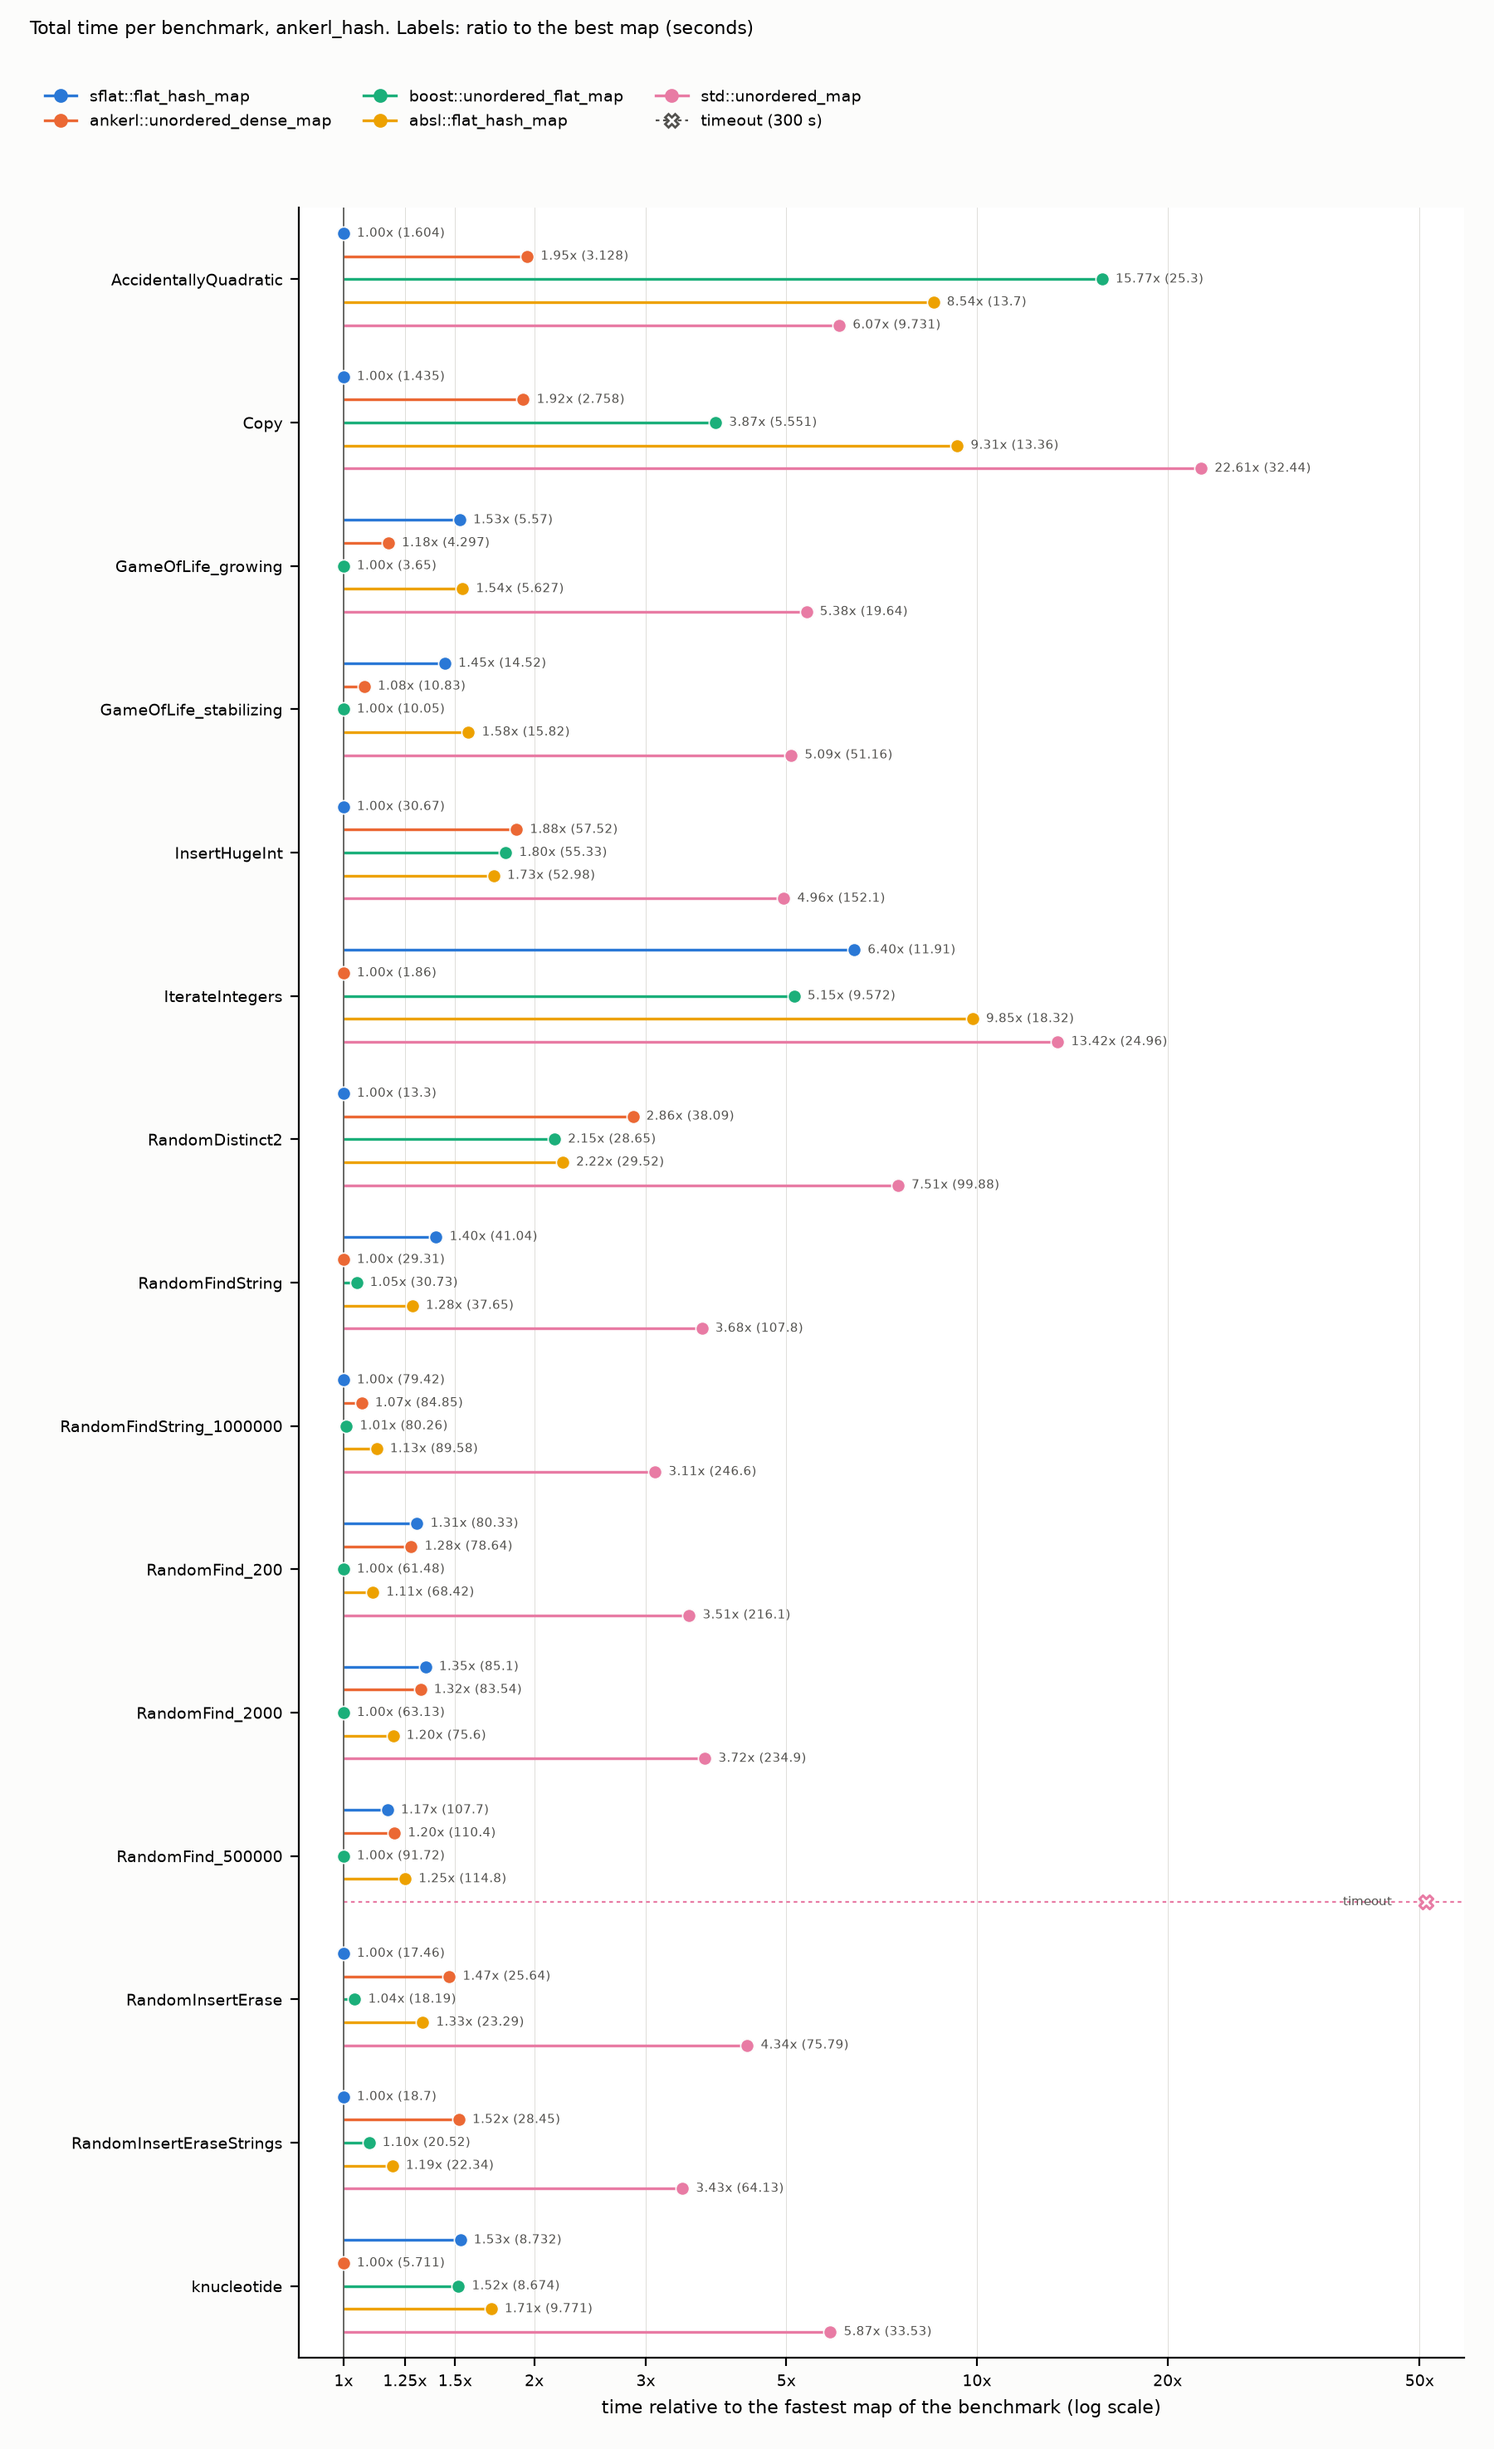
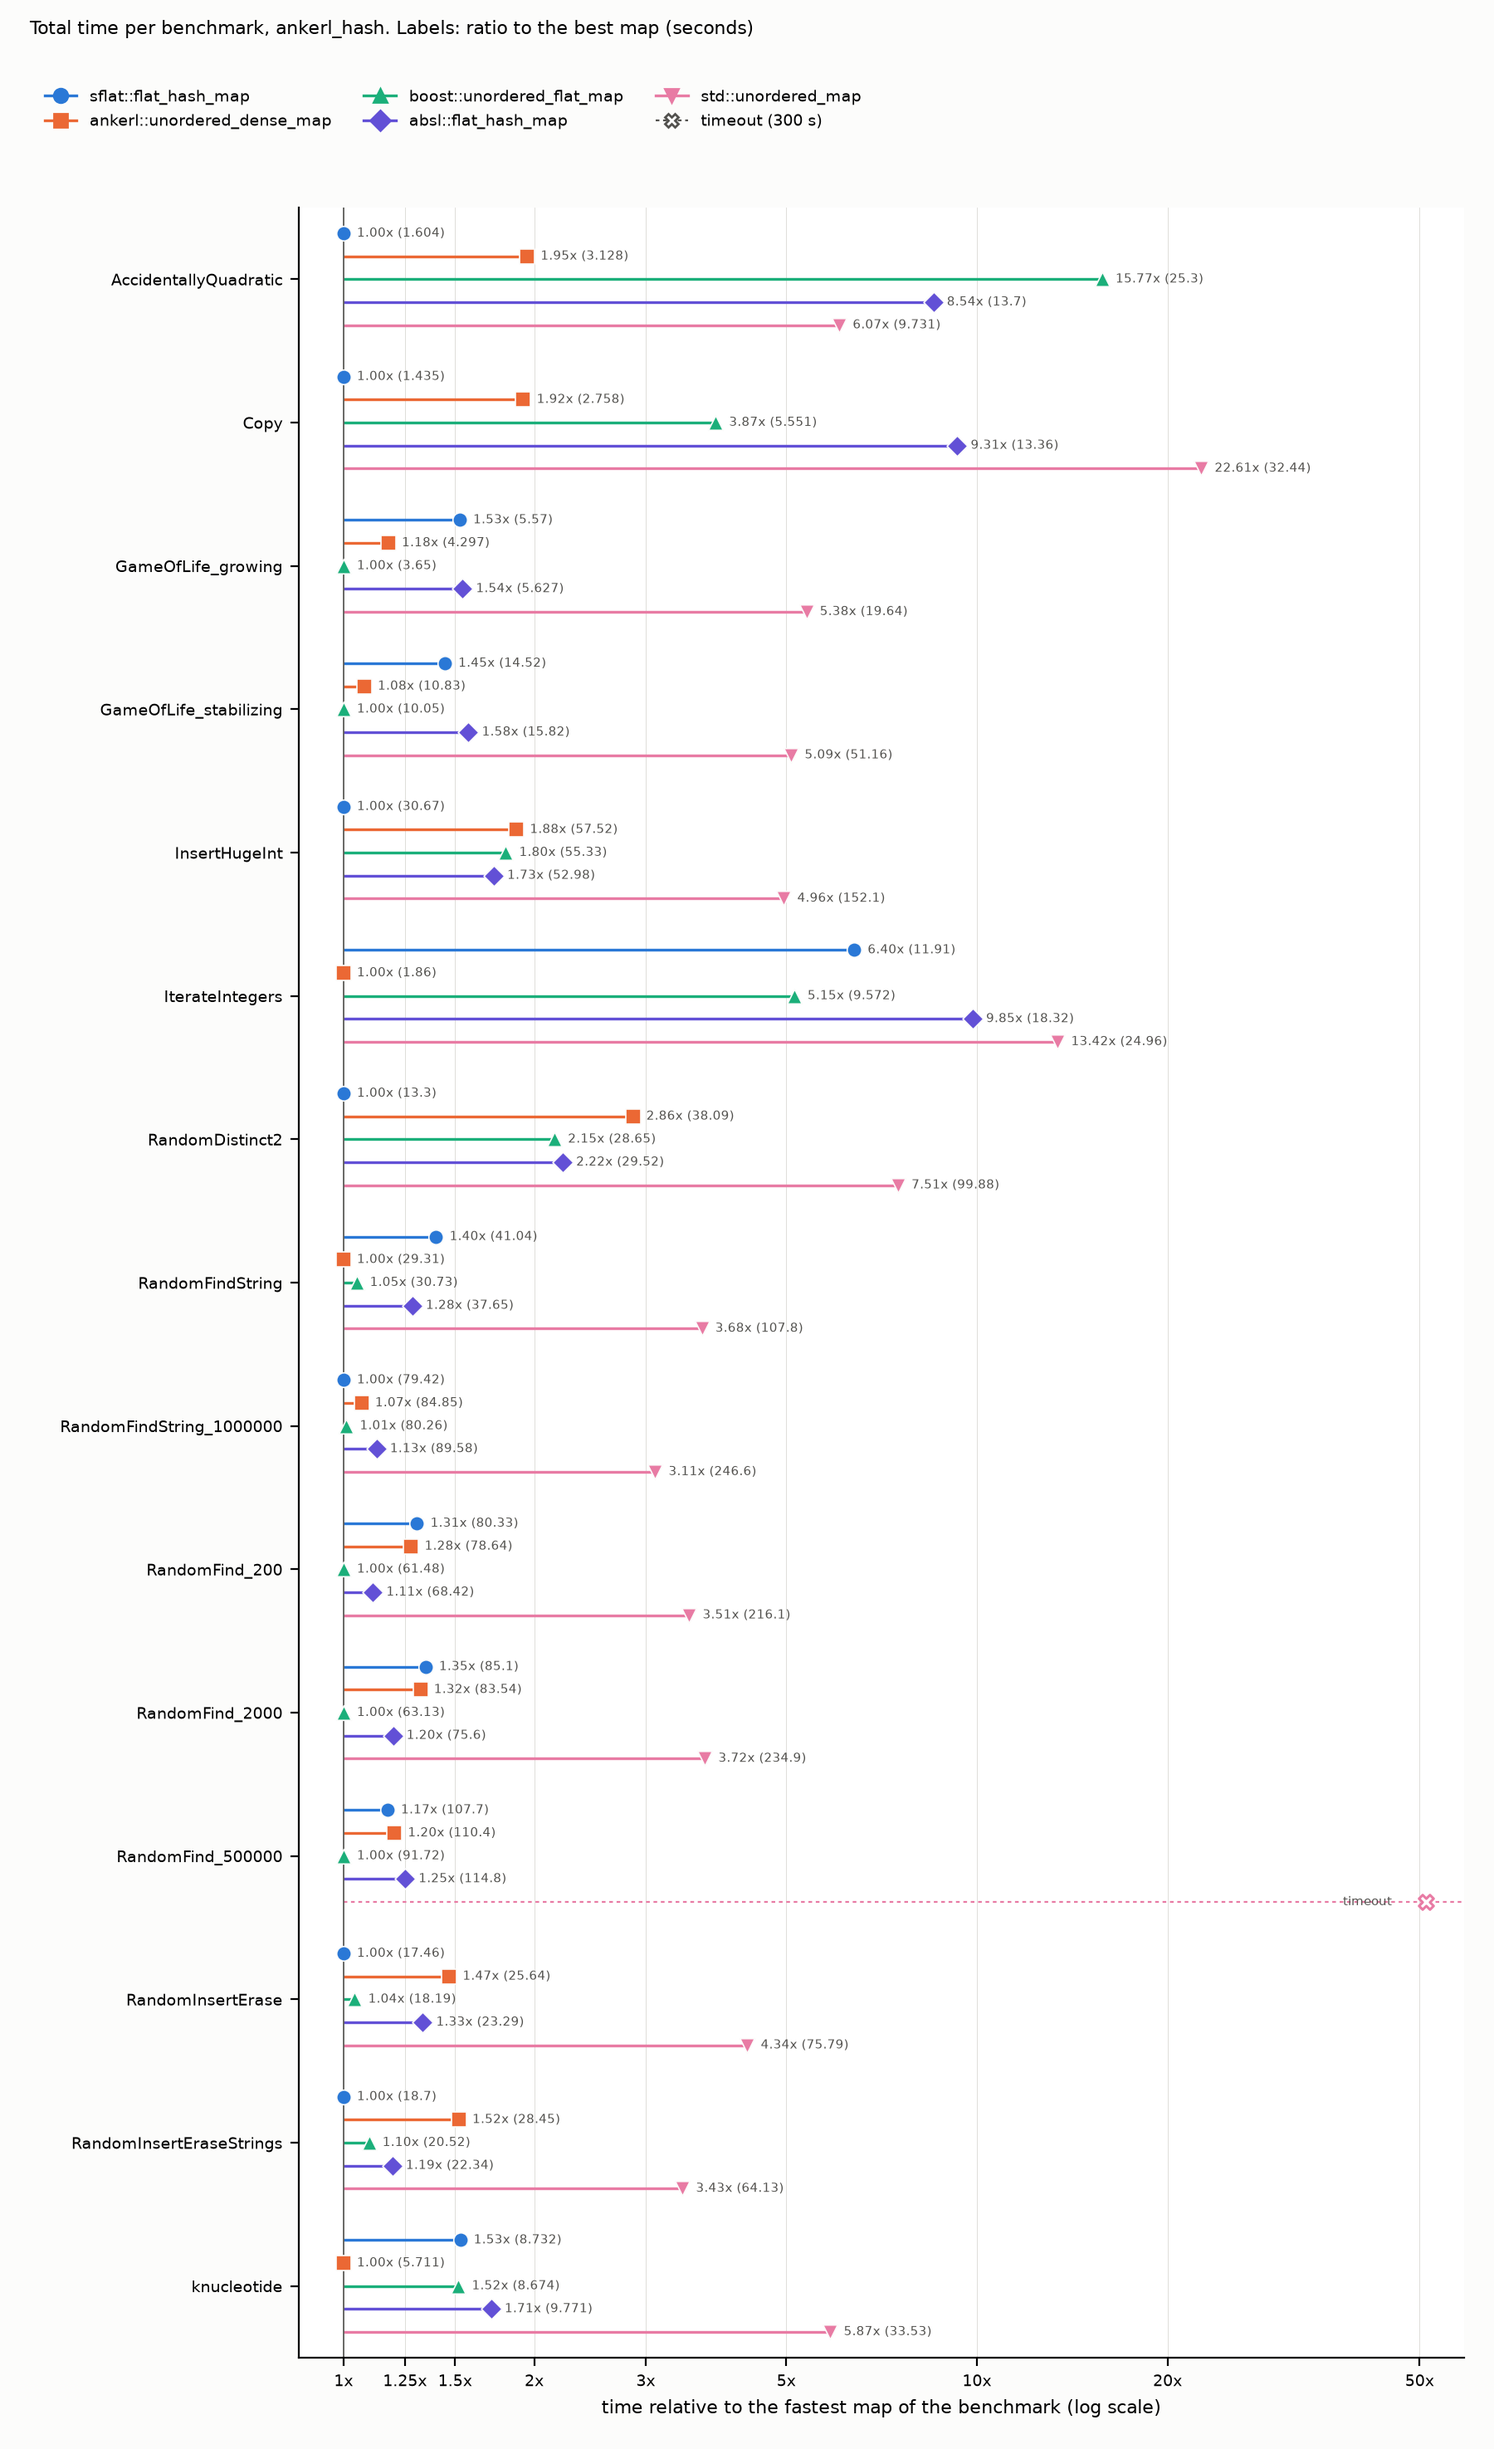
plot_subset: a distinct colour and marker shape for each map
Replace the yellow with violet, and draw the maps as circle, square, triangle up,
diamond and triangle down, so they differ without the colour.

Changed region(s): [[0.3111, 0.3431, 0.3422, 0.3742], [0.2489, 0.0312, 0.28, 0.0624], [0.2178, 0.5614, 0.2489, 0.5925]]

diff --git a/tools/plot_subset.py b/tools/plot_subset.py
@@ -12,11 +12,13 @@ import matplotlib.pyplot as plt
 from matplotlib.lines import Line2D
 
 raw, prog, out = sys.argv[1:4]
-MAPS = [("sflat_flat_hash_map", "sflat::flat_hash_map", "#2a78d6"),
-        ("ankerl_unordered_dense", "ankerl::unordered_dense_map", "#eb6834"),
-        ("boost_unordered_flat_map", "boost::unordered_flat_map", "#1baf7a"),
-        ("abseil_flat_hash_map", "absl::flat_hash_map", "#eda100"),
-        ("std_unordered_map", "std::unordered_map", "#e87ba4")]
+# colour and marker shape per map (the shape tells the maps apart without the colour); the five colours pass
+# validate_palette.js (adjacent CVD and normal-vision separation)
+MAPS = [("sflat_flat_hash_map", "sflat::flat_hash_map", "#2a78d6", "o"),
+        ("ankerl_unordered_dense", "ankerl::unordered_dense_map", "#eb6834", "s"),
+        ("boost_unordered_flat_map", "boost::unordered_flat_map", "#1baf7a", "^"),
+        ("abseil_flat_hash_map", "absl::flat_hash_map", "#6250d6", "D"),
+        ("std_unordered_map", "std::unordered_map", "#e87ba4", "v")]
 MIN_MB = 3.0  # below this the process memory is mostly the runtime, not the map
 
 timeouts = set()
@@ -46,24 +48,24 @@ def plot(hash_, idx, title, xlabel, path, skip_small):
     for bi, b in enumerate(benches):
         d = data[(hash_, b)]
         best = min(v[idx] for v in d.values() if v)
-        for mi, (key, label, color) in enumerate(MAPS):
+        for mi, (key, label, color, shape) in enumerate(MAPS):
             ratios.append(d[key][idx] / best if d.get(key) else None)
     top = max(r for r in ratios if r) * 2.6
     L = 0.85  # room left of 1x so that the markers of the best maps are fully visible
     for bi, b in enumerate(benches):
         d = data[(hash_, b)]
         best = min(v[idx] for v in d.values() if v)
-        for mi, (key, label, color) in enumerate(MAPS):
+        for mi, (key, label, color, shape) in enumerate(MAPS):
             y = bi + (mi - (n - 1) / 2) * 0.16
             v = d.get(key)
             if v is None:
                 ax.hlines(y, 1, top, color=color, linewidth=0.8, linestyle=(0, (2, 2)))
-                ax.scatter([top / 1.15], [y], s=34, marker="X", facecolor="white", edgecolor=color, linewidth=1.1, zorder=3)
+                ax.scatter([top / 1.15], [y], s=40, marker="X", facecolor="white", edgecolor=color, linewidth=1.1, zorder=3)
                 ax.text(top / 1.3, y, "timeout", ha="right", va="center", fontsize=5.5, color="#52514e")
             else:
                 r = v[idx] / best
                 ax.hlines(y, 1, r, color=color, linewidth=1.2)
-                ax.scatter([r], [y], s=34, color=color, edgecolor="#fcfcfb", linewidth=0.6, zorder=3)
+                ax.scatter([r], [y], s=40, marker=shape, color=color, edgecolor="#fcfcfb", linewidth=0.6, zorder=3)
                 ax.text(r * 1.05, y, "%.2fx (%.4g)" % (r, v[idx]), va="center", fontsize=5.5, color="#52514e")
     ax.set_xscale("log")
     ax.set_xlim(L, top)
@@ -81,7 +83,7 @@ def plot(hash_, idx, title, xlabel, path, skip_small):
     ax.set_axisbelow(True)
     for s in ("top", "right"):
         ax.spines[s].set_visible(False)
-    handles = [Line2D([0], [0], color=c, marker="o", markersize=5, linewidth=1.2, label=l) for _, l, c in MAPS] + \
+    handles = [Line2D([0], [0], color=c, marker=m, markersize=6, linewidth=1.2, label=l) for _, l, c, m in MAPS] + \
               [Line2D([0], [0], color="#52514e", marker="X", markerfacecolor="white", markersize=6, linewidth=0.8,
                       linestyle=(0, (2, 2)), label="timeout (300 s)")]
     # fixed margins in inches: title, then the legend (3 columns x 2 rows), then the plot, so they cannot overlap
